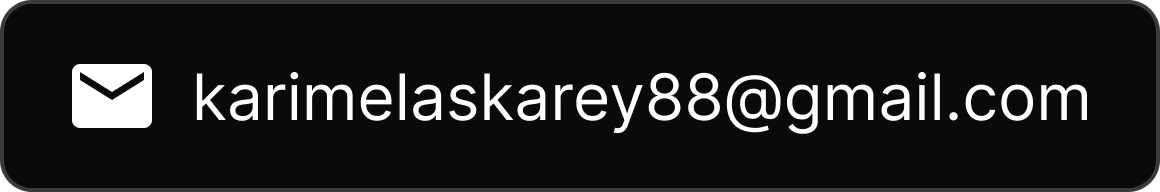
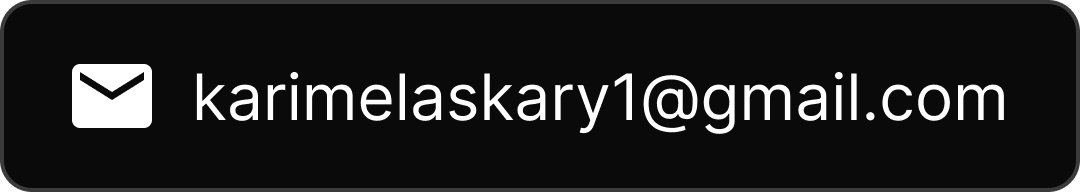
Done

diff --git a/src/components/Footer.jsx b/src/components/Footer.jsx
@@ -8,7 +8,7 @@ const Footer = () => {
   return (
     <footer className='py-[50px] mx-[10%] md:mx-[120px]'>
       <div className='flex flex-col items-center justify-center bg-[#121212] rounded-3xl'>
-        <img src={left} alt='left' className='h-16 self-start' id='footer'/>
+        <img src={left} alt='left' className='h-16 self-start' id='footer' />
         <h3 className='header3'>Let's Talk!</h3>
         <p className='text-center mt-5 mb-12 paragraphing-md mx-[70px] md:mx-[120px] capitalize'>
           Interested in working together or have a question? Feel free to reach
@@ -16,11 +16,14 @@ const Footer = () => {
           realities. Looking forward to hearing from you soon!
         </p>
         <div className='flex gap-4 mb-[20px] md:mb-0'>
-          <a href='mailto:karimelaskarey88@gmail.com'>
-            <img src={gmail} alt='gmail' className='h-[30px] md:h-[48px]'/>
+          <a href='mailto:karimelaskary1@gmail.com'>
+            <img src={gmail} alt='gmail' className='h-[30px] md:h-[48px]' />
           </a>
-          <a href='https://www.linkedin.com/in/karim-elaskary-428301237/' target='_blank' >
-            <img src={linkedin} alt='gmail' className='h-[30px] md:h-[48px]'/>
+          <a
+            href='https://www.linkedin.com/in/karim-elaskary-428301237/'
+            target='_blank'
+          >
+            <img src={linkedin} alt='gmail' className='h-[30px] md:h-[48px]' />
           </a>
         </div>
         <img src={right} alt='left' className='h-16 self-end' />
